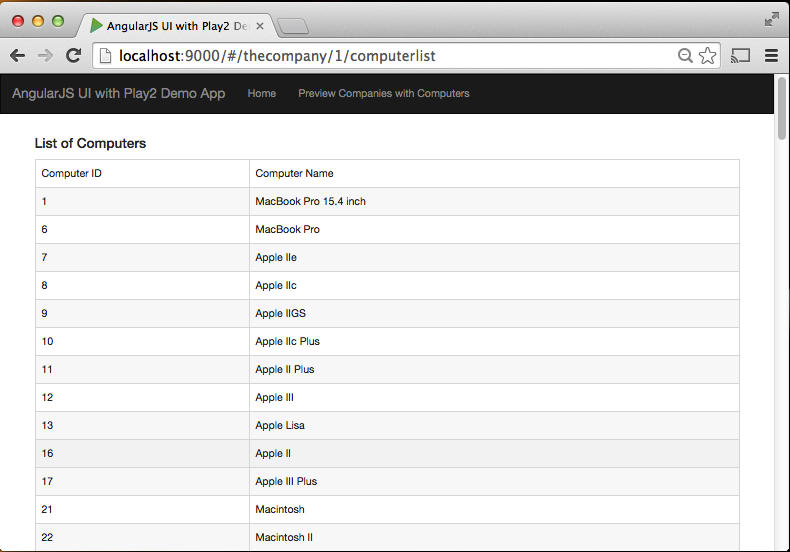
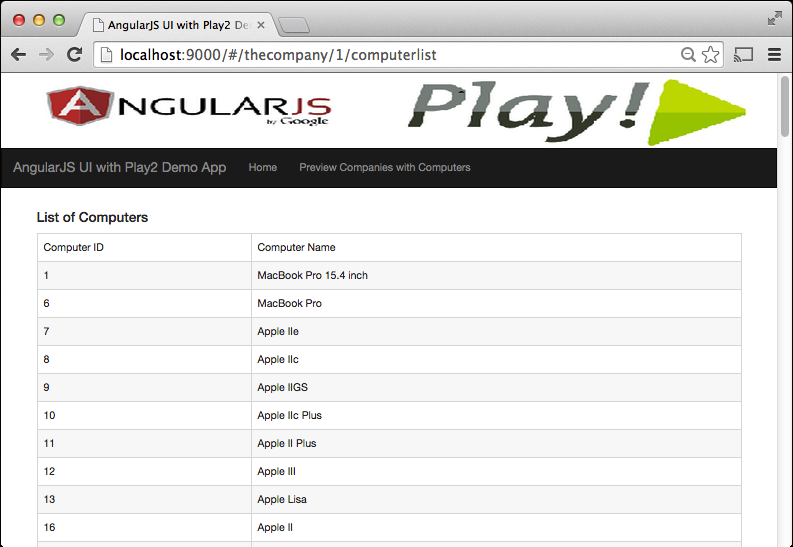
add image header on top of nav bar

diff --git a/app/views/index.scala.html b/app/views/index.scala.html
@@ -13,6 +13,10 @@
   <script src="@routes.Assets.at("javascripts/angularapp.js")" type="text/javascript"></script>
 </head>
 <body ng-app="AngularPlay2App">
+  <div class="header_image">
+    <img src="@routes.Assets.at("images/favicon.png")" height="100" width="570"/>
+  </div>
+  
   <!-- NAVIGATION -->
   <nav class="navbar navbar-inverse" role="navigation">
     <div class="navbar-header">

diff --git a/app/views/about.scala.html b/app/views/about.scala.html
@@ -1,6 +1,6 @@
 @(title: String)
 
 <div class="jumbotron text-center">
-    <h1>About @title</h1>
+    <h3>About @title</h3>
     <p>This is a demo app using Angular JS UI as front-end with Play2 middle-tier and PostgreSQL as back-end DB, Play2 is using Slick to access data in PostgreSQL DB.</p>
 </div>

diff --git a/public/stylesheets/main.css b/public/stylesheets/main.css
@@ -1,2 +1,3 @@
 .navbar { border-radius:0; }
 
+.header_image img{ width:100%; }
